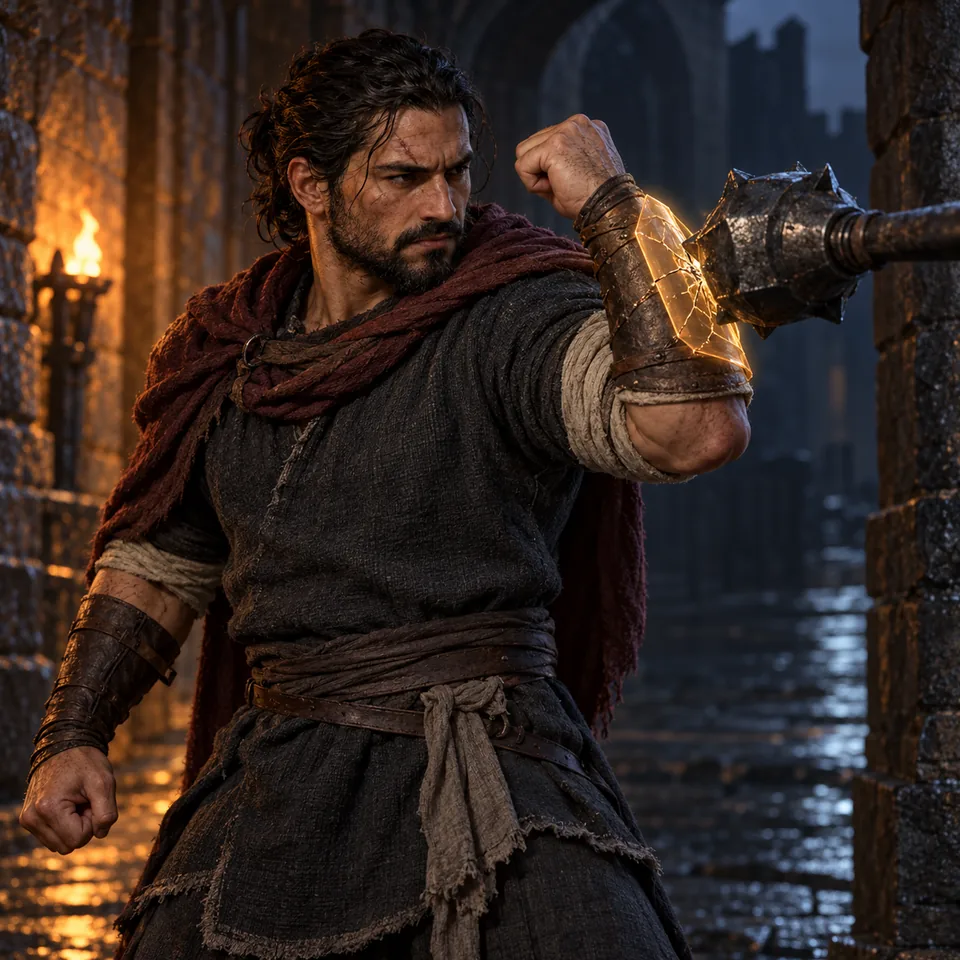
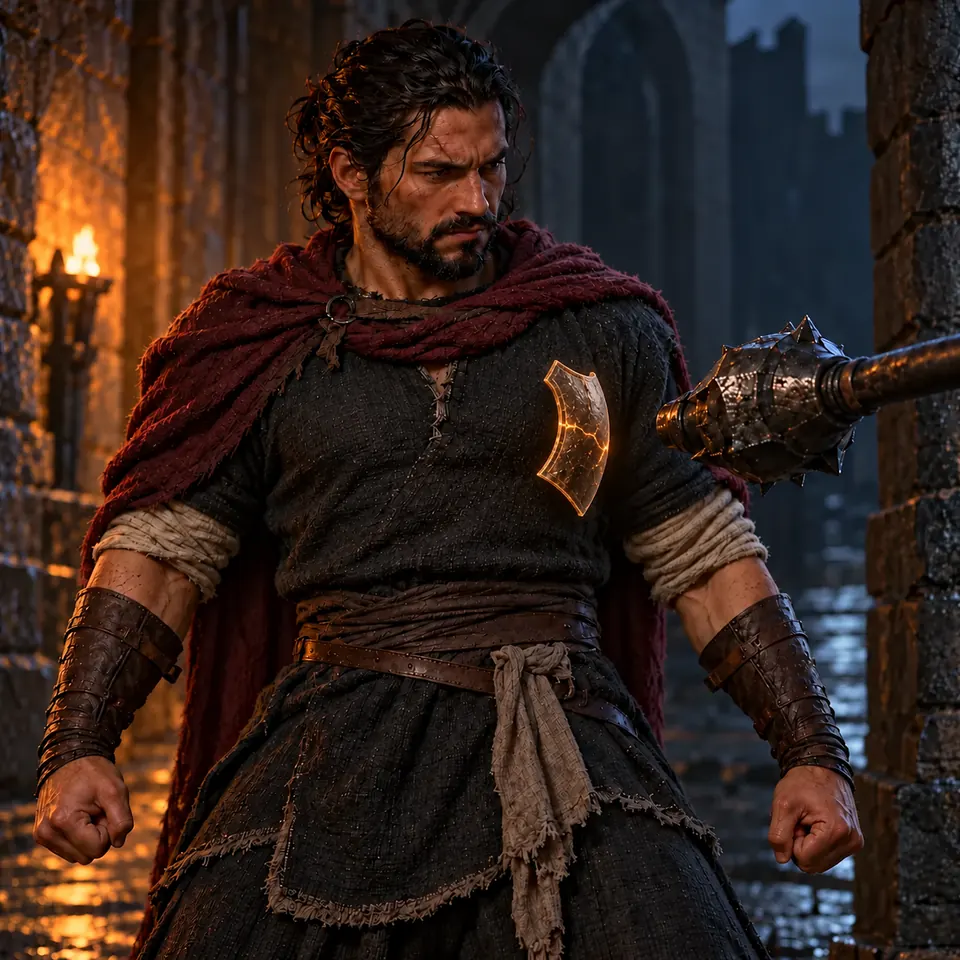
feat(cards): refine barebones artwork

diff --git a/docs/CARD_ARTWORK.md b/docs/CARD_ARTWORK.md
@@ -160,11 +160,13 @@ partículas ou brilho difuso.
 
 ### Sem Armadura
 
-Em um corredor de fortaleza de escala humana, o guardião bloqueia um único golpe
-com o antebraço. A pequena placa âmbar translúcida, comprimida no ponto de
-impacto e rachada por linhas curtas, comunica resiliência sem se tornar uma
-armadura mágica completa. Uma única tocha baixa ilumina a pedra e mantém o
-cenário secundário.
+Em um corredor de fortaleza de escala humana, o guardião suporta um único golpe
+direto no peitoral, vestindo apenas uma túnica espessa. Com os braços baixos e
+o tórax projetado, ele permanece firme enquanto uma pequena placa de ferro
+espectral âmbar flutua diante da túnica e intercepta o golpe sem contato com a
+roupa. Rachada por linhas curtas, ela comunica resiliência sem se tornar uma
+armadura mágica completa. Uma única
+tocha baixa ilumina a pedra e mantém o cenário secundário.
 
 ### Empurrão Poderoso
 
@@ -185,7 +187,7 @@ do corredor mantêm a ação íntima e silenciosa, priorizando o sacrifício.
 
 | ID | Arquivo | Dimensões | Tamanho |
 | --- | --- | ---: | ---: |
-| `card.core.valor.p3-7` | `barebones.webp` | 960 × 960 | 118.294 bytes |
+| `card.core.valor.p3-7` | `barebones.webp` | 960 × 960 | 104.144 bytes |
 | `card.core.valor.p3-8` | `forceful-push.webp` | 960 × 960 | 130.828 bytes |
 | `card.core.valor.p3-9` | `i-am-your-shield.webp` | 960 × 960 | 111.844 bytes |
 
@@ -196,10 +198,11 @@ SoulForge preservam imagens fornecidas pelo Pack ou pela pessoa usuária.
 ### Prompts finais
 
 **Sem Armadura:** guardião recorrente sem peitoral metálico, em túnica carvão,
-faixas simples, couro gasto e capa vinho-terrosa, bloqueando com o antebraço um
-golpe único em corredor de pedra úmida. Uma pequena placa âmbar translúcida e
-rachada existe somente no contato; tocha lateral baixa, fundo desfocado, sem
-aura, runas, partículas, brilho difuso ou ornamentos dourados.
+faixas simples, couro gasto e capa vinho-terrosa, recebendo de frente um golpe
+único no peitoral em corredor de pedra úmida. Braços baixos e tórax projetado;
+uma pequena placa de ferro espectral âmbar, rachada e suspensa à frente da
+túnica, intercepta a arma antes do contato. Tocha lateral baixa, fundo
+desfocado, sem aura, runas, partículas, brilho difuso ou ornamentos dourados.
 
 **Empurrão Poderoso:** o mesmo guardião empurra o peito de um único inimigo com
 o cabo de madeira de uma lança, segurada por duas mãos separadas. A ponta inteira

diff --git a/docs/ASSET_POLICY.md b/docs/ASSET_POLICY.md
@@ -293,9 +293,9 @@ direção visual está registrada em [Artes de cartas](CARD_ARTWORK.md).
 
 Em 17 de outubro de 2026, Sem Armadura, Empurrão Poderoso e Eu Sou Seu Escudo
 completaram as artes de nível 1 do domínio Valor. As três imagens WebP de
-960 × 960 totalizam 360.966 bytes e usam o mesmo guardião, iluminação prática
+960 × 960 totalizam 346.816 bytes e usam o mesmo guardião, iluminação prática
 baixa e efeitos âmbar localizados para evitar poluição visual. Após a integração,
-o build contém 69 entradas e 5.018,14 KiB no precache, ainda dentro da faixa
+o build contém 69 entradas e 5.004,32 KiB no precache, ainda dentro da faixa
 saudável do Estágio 1. A direção visual está registrada em
 [Artes de cartas](CARD_ARTWORK.md).
 
